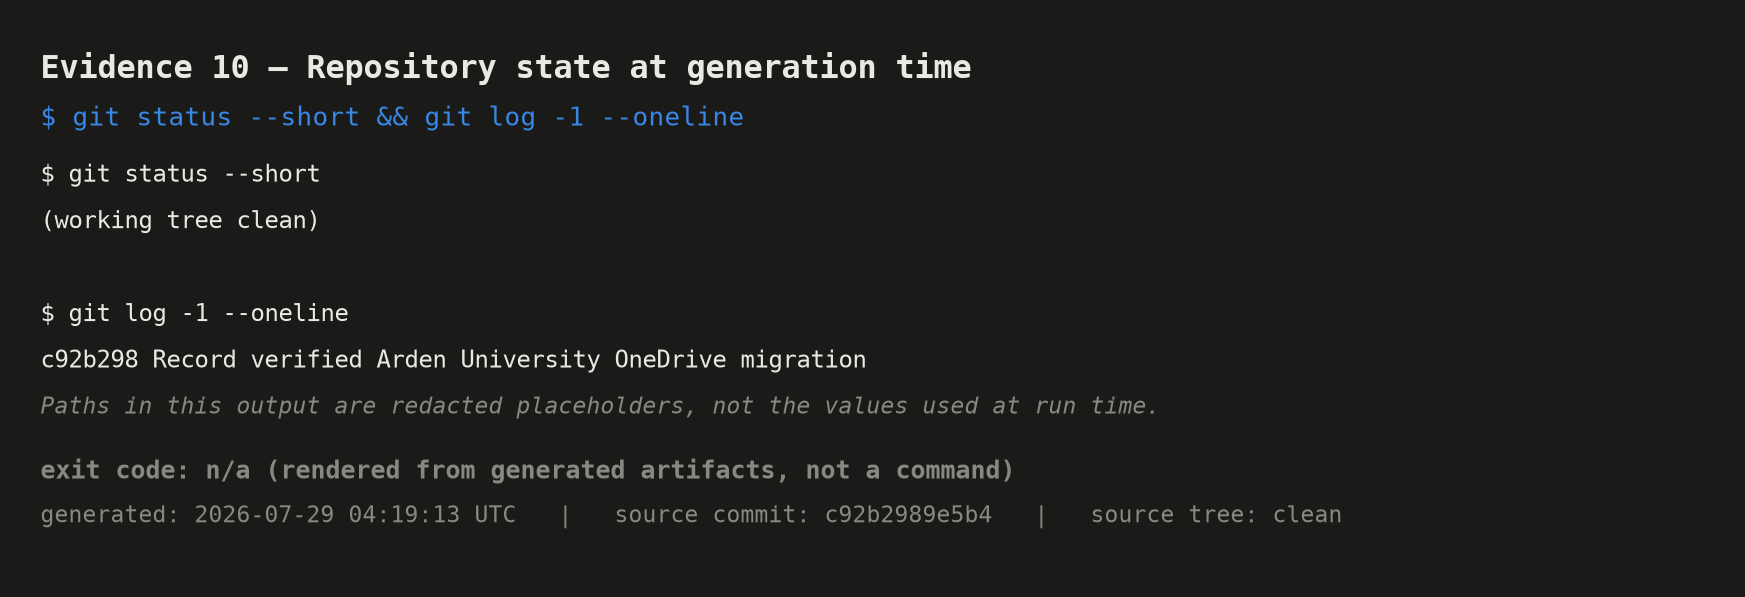
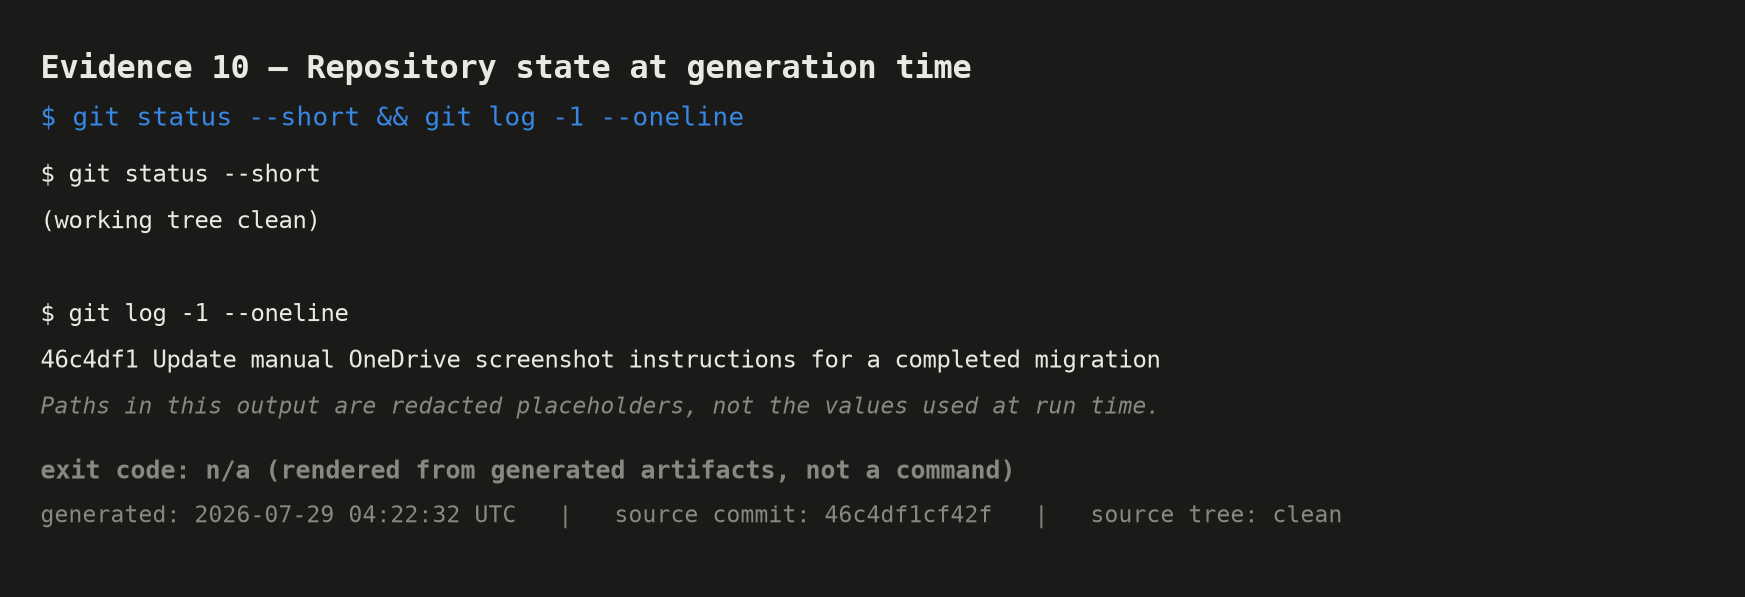
Regenerate evidence with updated manual-screenshot instructions
Generated outside the repository from clean source commit 46c4df1.

Changed region(s): [[0.0309, 0.5729, 0.6808, 0.6332], [0.4642, 0.8442, 0.588, 0.8744], [0.2166, 0.8442, 0.2785, 0.8744]]

diff --git a/results/report_evidence/manual_screenshots_required.md b/results/report_evidence/manual_screenshots_required.md
@@ -50,11 +50,11 @@ These five items cannot be generated locally, and this project will not fabricat
 
 **Title.** Institutional storage location
 
-**Where to capture.** The Arden University OneDrive research folder — **only after the migration is actually done**; it is still outstanding (see docs/USER_ACTIONS_REQUIRED.md)
+**Where to capture.** The Arden University OneDrive research folder, navigated to the project's own subfolder (not the OneDrive account root) — the migration is complete and verified, see docs/USER_ACTIONS_REQUIRED.md for the checksum/file-count record
 
-**Must be visible.** The university-controlled OneDrive identity/location; the project folder; and the high-level folder structure (datasets/, protocols/, models/).
+**Must be visible.** The university-controlled OneDrive identity/location; the project subfolder; and the high-level folder structure (datasets/, protocols/, models/).
 
-**Must be redacted.** Face-image thumbnails; participant or identity names; unrelated university or personal files; absolute local paths containing your account name. Switch the file browser out of any thumbnail/preview mode before capturing.
+**Must be redacted.** Face-image thumbnails; participant or identity names; unrelated university or personal files; absolute local paths containing your account name. Navigate *into* the project subfolder before capturing rather than screenshotting the OneDrive account root — an institutional OneDrive root commonly also holds unrelated personal documents (coursework, assignments, or similar) that must never appear in a committed screenshot. Switch the file browser out of any thumbnail/preview mode first.
 
 **Report section.** Appendix C — Data governance evidence
 

diff --git a/results/report_evidence/REPORT_EVIDENCE_INDEX.md b/results/report_evidence/REPORT_EVIDENCE_INDEX.md
@@ -1,6 +1,6 @@
 # Report evidence index
 
-Generated by `scripts/generate_report_evidence.py` at 2026-07-29 04:19:13 UTC from source commit `c92b2989e5b4`, whose working tree was clean at generation time.
+Generated by `scripts/generate_report_evidence.py` at 2026-07-29 04:22:32 UTC from source commit `46c4df1cf42f`, whose working tree was clean at generation time.
 
 The evidence files themselves are **not** part of that source commit: they are generated from it and added by a subsequent commit. Every figure is derived only from `results/aggregate/*` — no raw image, embedding, identity or absolute path is read or reproduced. Per-item hashes are in `report_evidence_manifest.json`.
 
